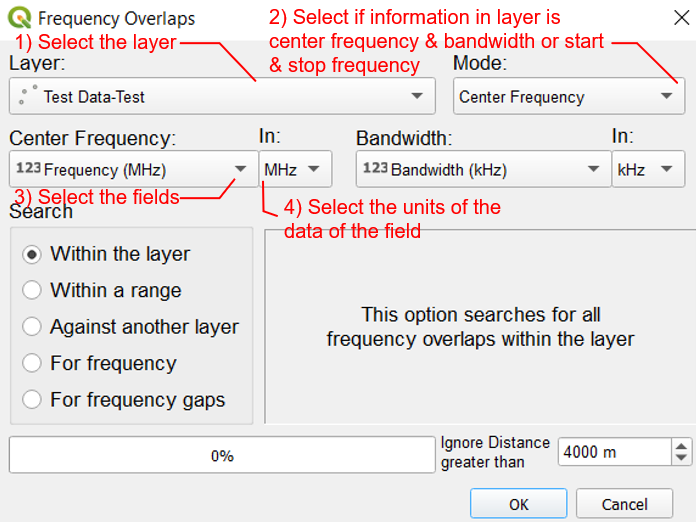
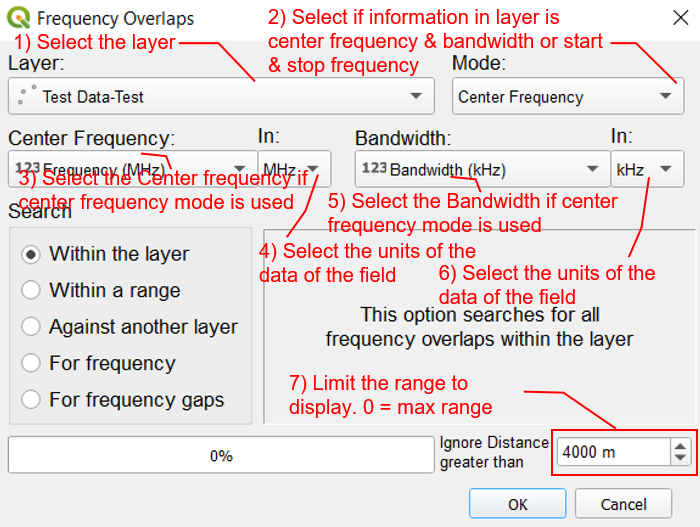
Added images and README.rst

diff --git a/README.rst b/README.rst
@@ -23,6 +23,9 @@ Functions of Frequency Overlaps
 
 .. image:: images/FrequencyOverlaps.png
 
+1) Select the QGIS layer from the drop down list which contains information about the location where the frequency is used.
+
+
 
 Contents:
 
